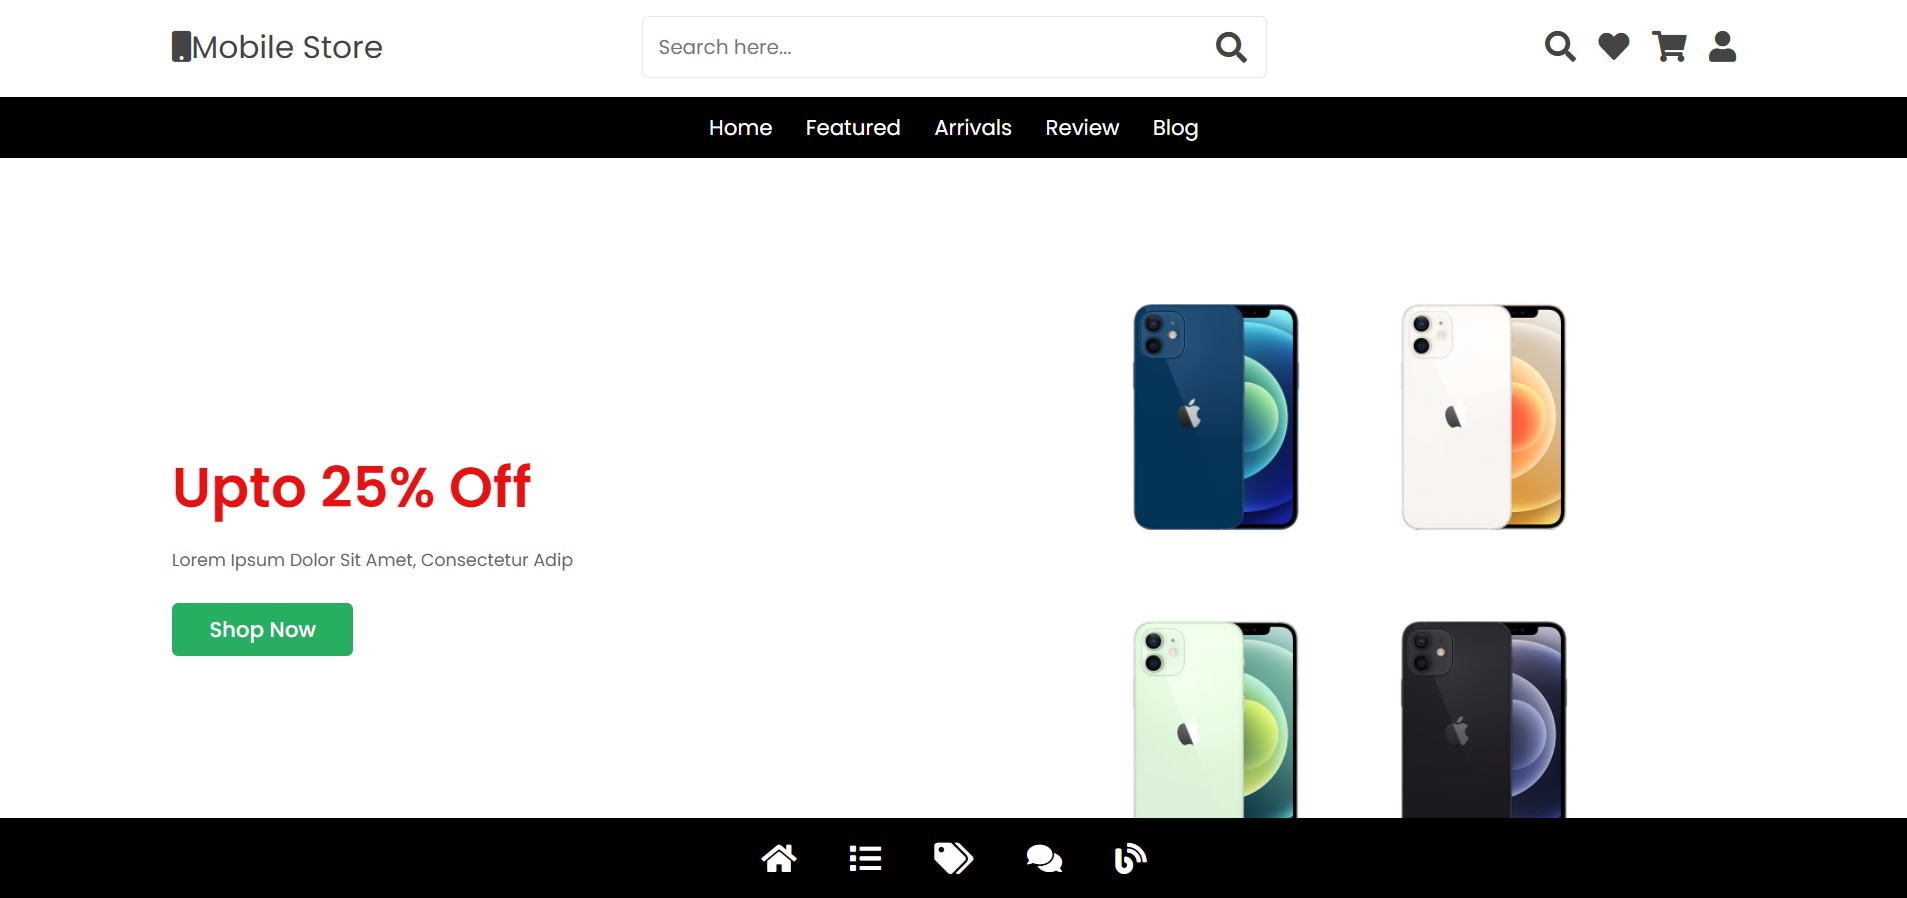
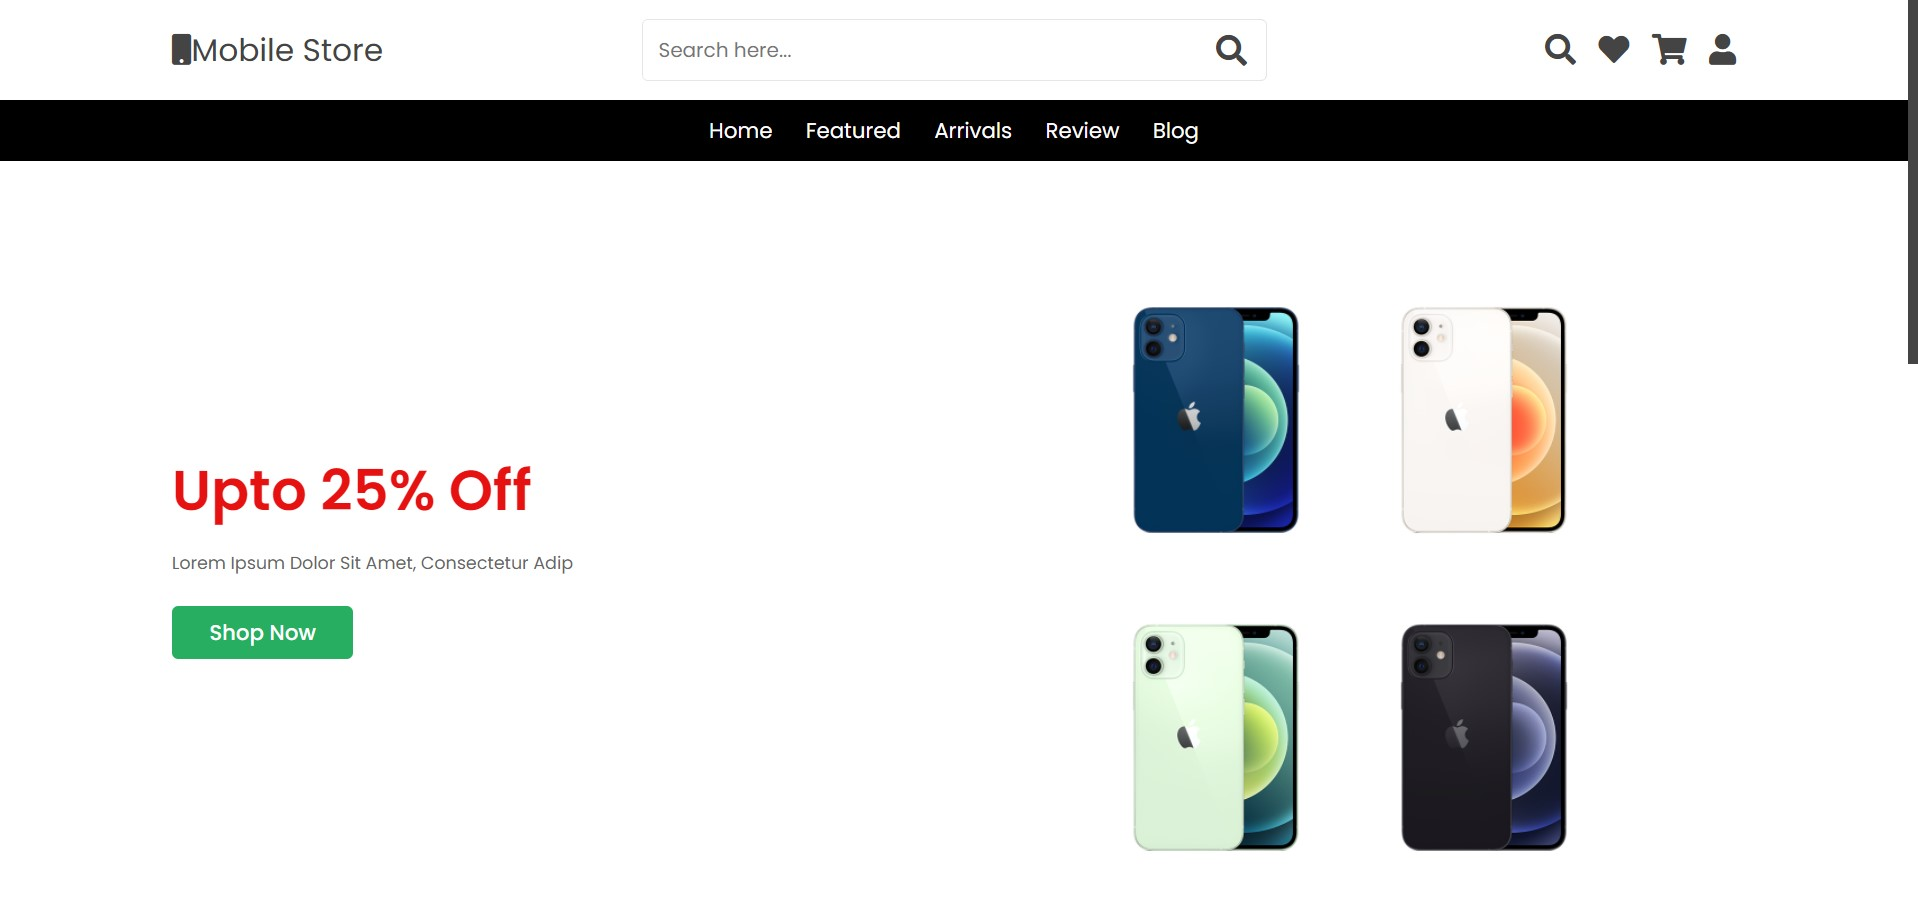
updateprojct23/10/2021

diff --git a/index.html b/index.html
@@ -41,20 +41,11 @@
                 <a href="#featured">Featured</a>
                 <a href="#arrivals">Arrivals</a>
                 <a href="#review">Review</a>
-                <a href="#blogs">Blog</a>
+                <a href="#aboutus">About us</a>
             </nav>
         </div>
     </header>
     <!-- header section ends -->
-
-    <!-- bottom navbar -->
-    <nav class="bottom-navbar">
-        <a href="#home" class="fas fa-home"></a>
-        <a href="#featured" class="fas fa-list"></a>
-        <a href="#arrivals" class="fas fa-tags"></a>
-        <a href="#review" class="fas fa-comments"></a>
-        <a href="#blogs" class="fas fa-blog"></a>
-    </nav>
 
     <!--login form-->
     <div class="login-form-container">
@@ -91,7 +82,6 @@
                     <a href="#"><img src="https://store.storeimages.cdn-apple.com/8756/as-images.apple.com/is/iphone-12-green-select-2020?wid=470&hei=556&fmt=jpeg&qlt=95&.v=1604343704000" alt="" /></a>
                     <a href="#"><img src="https://store.storeimages.cdn-apple.com/8756/as-images.apple.com/is/iphone-12-black-select-2020?wid=470&hei=556&fmt=jpeg&qlt=95&.v=1604343702000" alt="" /></a>
                 </div>
-                <div class="swiper-pagination"></div>
             </div>
         </div>
     </section>
@@ -257,6 +247,128 @@
     </section>
 
     <!-- newsletter section ends -->
+
+    <!-- arrivals section starts -->
+    <div class="arrivals" id="arrivals">
+        <h1 class="heading"><span>new arrivals</span></h1>
+
+        <div class="arrivals-slider">
+            <div class="wraper">
+                <a href="" class="box">
+                    <div class="image">
+                        <img src="https://store.storeimages.cdn-apple.com/8756/as-images.apple.com/is/iphone-13-pro-max-blue-select?wid=940&hei=1112&fmt=png-alpha&.v=1631652955000" alt="" />
+                    </div>
+                    <div class="content">
+                        <h3>new arrivals</h3>
+                        <div class="price">$1560.65 <span>$1650.00</span></div>
+                        <div class="stars">
+                            <i class="fas fa-star"></i>
+                            <i class="fas fa-star"></i>
+                            <i class="fas fa-star"></i>
+                            <i class="fas fa-star"></i>
+                            <i class="fas fa-star-half-alt"></i>
+                        </div>
+                    </div>
+                </a>
+                <a href="" class="box">
+                    <div class="image">
+                        <img src="https://store.storeimages.cdn-apple.com/8756/as-images.apple.com/is/iphone-13-pro-max-graphite-select?wid=470&hei=556&fmt=jpeg&qlt=95&.v=1631652956000" alt="" />
+                    </div>
+                    <div class="content">
+                        <h3>new arrivals</h3>
+                        <div class="price">$1560.65 <span>$1650.00</span></div>
+                        <div class="stars">
+                            <i class="fas fa-star"></i>
+                            <i class="fas fa-star"></i>
+                            <i class="fas fa-star"></i>
+                            <i class="fas fa-star"></i>
+                            <i class="fas fa-star-half-alt"></i>
+                        </div>
+                    </div>
+                </a>
+                <a href="" class="box">
+                    <div class="image">
+                        <img src="https://store.storeimages.cdn-apple.com/8756/as-images.apple.com/is/iphone-13-pro-max-silver-select?wid=470&hei=556&fmt=jpeg&qlt=95&.v=1631652956000" alt="" />
+                    </div>
+                    <div class="content">
+                        <h3>new arrivals</h3>
+                        <div class="price">$1560.65 <span>$1650.00</span></div>
+                        <div class="stars">
+                            <i class="fas fa-star"></i>
+                            <i class="fas fa-star"></i>
+                            <i class="fas fa-star"></i>
+                            <i class="fas fa-star"></i>
+                            <i class="fas fa-star-half-alt"></i>
+                        </div>
+                    </div>
+                </a>
+                <a href="" class="box">
+                    <div class="image">
+                        <img src="https://store.storeimages.cdn-apple.com/4982/as-images.apple.com/is/iphone-13-pro-max-gold-select?wid=940&hei=1112&fmt=png-alpha&.v=1631652956000" alt="" />
+                    </div>
+                    <div class="content">
+                        <h3>new arrivals</h3>
+                        <div class="price">$1560.65 <span>$1650.00</span></div>
+                        <div class="stars">
+                            <i class="fas fa-star"></i>
+                            <i class="fas fa-star"></i>
+                            <i class="fas fa-star"></i>
+                            <i class="fas fa-star"></i>
+                            <i class="fas fa-star-half-alt"></i>
+                        </div>
+                    </div>
+                </a>
+            </div>
+        </div>
+    </div>
+    <!-- arrivals section ends -->
+
+    <!--Footer section starts -->
+    <footer class="footer">
+        <div class="footer-container" id="aboutus">
+            <div class="row">
+                <div class="footer-col">
+                    <h4>Sitesoch</h4>
+                    <ul>
+                        <li><a href="#">Home</a></li>
+                        <li><a href="#">About</a></li>
+                        <li><a href="#">Pricing</a></li>
+                        <li><a href="#">Privacy Policy</a></li>
+                    </ul>
+                </div>
+                <div class="footer-col">
+                    <h4>Get Help</h4>
+                    <ul>
+                        <li><a href="#">Shipping</a></li>
+                        <li><a href="#">Returns</a></li>
+                        <li><a href="#">Order Status</a></li>
+                        <li><a href="#">Payment Options</a></li>
+                    </ul>
+                </div>
+                <div class="footer-col">
+                    <h4>Address</h4>
+                    <ul>
+                        <li>
+                            <a href="#">Lorem ipsum dolor sit amet consectetur, adipisicing elit.
+                  Cupiditate adipisci quia ab omnis id ipsum quae inventore
+                </a>
+                        </li>
+                    </ul>
+                </div>
+                <div class="footer-col">
+                    <h4>follow us</h4>
+                    <div class="social-links">
+                        <a href="#"><i class="fab fa-google"></i></a>
+                        <a href="#"><i class="fab fa-facebook-f"></i></a>
+                        <a href="#"><i class="fab fa-instagram"></i></a>
+                        <a href="#"><i class="fab fa-twitter"></i></a>
+                    </div>
+                </div>
+            </div>
+        </div>
+    </footer>
+
+    <!--Footer section ends -->
 </body>
 
 <!--Custom Script file-->

diff --git a/style.css b/style.css
@@ -179,26 +179,6 @@ section {
     z-index: 1000;
 }
 
-.bottom-navbar {
-    text-align: center;
-    background: #000000;
-    position: fixed;
-    bottom: 0;
-    left: 0;
-    right: 0;
-    z-index: 1000;
-}
-
-.bottom-navbar a {
-    font-size: 2.5rem;
-    padding: 2rem;
-    color: #fff;
-}
-
-.bottom-navbar a:hover {
-    background: var(--dark-color);
-}
-
 .login-form-container {
     display: flex;
     align-items: center;
@@ -416,6 +396,164 @@ section {
     text-decoration: line-through;
 }
 
+.newsletter {
+    background: url("https://images.unsplash.com/photo-1534802046520-4f27db7f3ae5?ixid=MnwxMjA3fDB8MHxwaG90by1wYWdlfHx8fGVufDB8fHx8&ixlib=rb-1.2.1&auto=format&fit=crop&w=1229&q=80") no-repeat;
+    background-size: cover;
+    background-position: center;
+    background-attachment: fixed;
+}
+
+.newsletter form {
+    max-width: 45rem;
+    margin-left: auto;
+    text-align: center;
+    padding: 5rem 0;
+}
+
+.newsletter form h3 {
+    font-size: 2.2rem;
+    color: rgb(49, 49, 49);
+    padding-bottom: 0.7rem;
+    font-weight: normal;
+}
+
+.newsletter form .box {
+    width: 100%;
+    margin: 0.7rem 0;
+    padding: 1rem 1.2rem;
+    font-size: 1.6rem;
+    color: var(--black);
+    border-radius: 0.5rem;
+    text-transform: none;
+}
+
+.arrivals .arrivals-slider .box {
+    display: flex;
+    align-items: center;
+    gap: 1.5rem;
+    padding: 2rem 1rem;
+    border: var(--border);
+    margin: 10px 250px;
+}
+
+.arrivals .arrivals-slider .box:hover {
+    border: var(--border-hover);
+}
+
+.arrivals .arrivals-slider .box .image img {
+    height: 15rem;
+}
+
+.arrivals .arrivals-slider .box .content h3 {
+    font-size: 2rem;
+    color: var(--black);
+}
+
+.arrivals .arrivals-slider .box .content .price {
+    font-size: 2.2rem;
+    color: var(--black);
+    padding-bottom: 0.5rem;
+}
+
+.arrivals .arrivals-slider .box .content .price span {
+    font-size: 1.5rem;
+    color: var(--light-color);
+    text-decoration: line-through;
+}
+
+.arrivals .arrivals-slider .box .content .stars i {
+    font-size: 1.5rem;
+    color: rgb(240, 65, 65);
+}
+
+.footer-container {
+    max-width: 1170px;
+    margin: auto;
+}
+
+.row {
+    display: flex;
+    flex-wrap: wrap;
+}
+
+ul {
+    list-style: none;
+}
+
+li {
+    text-align: justify;
+}
+
+.footer {
+    background-color: #02091a;
+    padding: 70px 0;
+}
+
+.footer-col {
+    width: 25%;
+    padding: 0 15px;
+}
+
+.footer-col h4 {
+    font-size: 18px;
+    color: #ffffff;
+    text-transform: capitalize;
+    margin-bottom: 35px;
+    font-weight: 500;
+    position: relative;
+}
+
+.footer-col ul li:not(:last-child) {
+    margin-bottom: 10px;
+}
+
+.footer-col ul li a {
+    font-size: 16px;
+    text-transform: capitalize;
+    color: #ffffff;
+    text-decoration: none;
+    font-weight: 300;
+    color: #bbbbbb;
+    display: block;
+    transition: all 0.3s ease;
+}
+
+.footer-col ul li a:hover {
+    color: #ffffff;
+    padding-left: 8px;
+}
+
+.footer-col .social-links a {
+    display: inline-block;
+    height: 40px;
+    width: 40px;
+    background-color: rgba(255, 255, 255, 0.2);
+    margin: 0 10px 10px 0;
+    text-align: center;
+    line-height: 40px;
+    border-radius: 50%;
+    color: #ffffff;
+    transition: all 0.5s ease;
+}
+
+.footer-col .social-links a:hover {
+    color: #24262b;
+    background-color: #ffffff;
+}
+
+@media (max-width: 767px) {
+    .footer-col {
+        width: 50%;
+        margin-bottom: 30px;
+    }
+}
+
+@media (max-width: 574px) {
+    .footer-col {
+        width: 100%;
+    }
+}
+
 @media (max-width: 991px) {
     html {
         font-size: 55%;
@@ -460,6 +598,13 @@ section {
     }
     .home .row .content h3 {
         font-size: 3.5rem;
+    }
+    .newsletter {
+        background-position: right;
+    }
+    .newsletter form {
+        margin-left: 0;
+        max-width: 100%;
     }
 }
 
